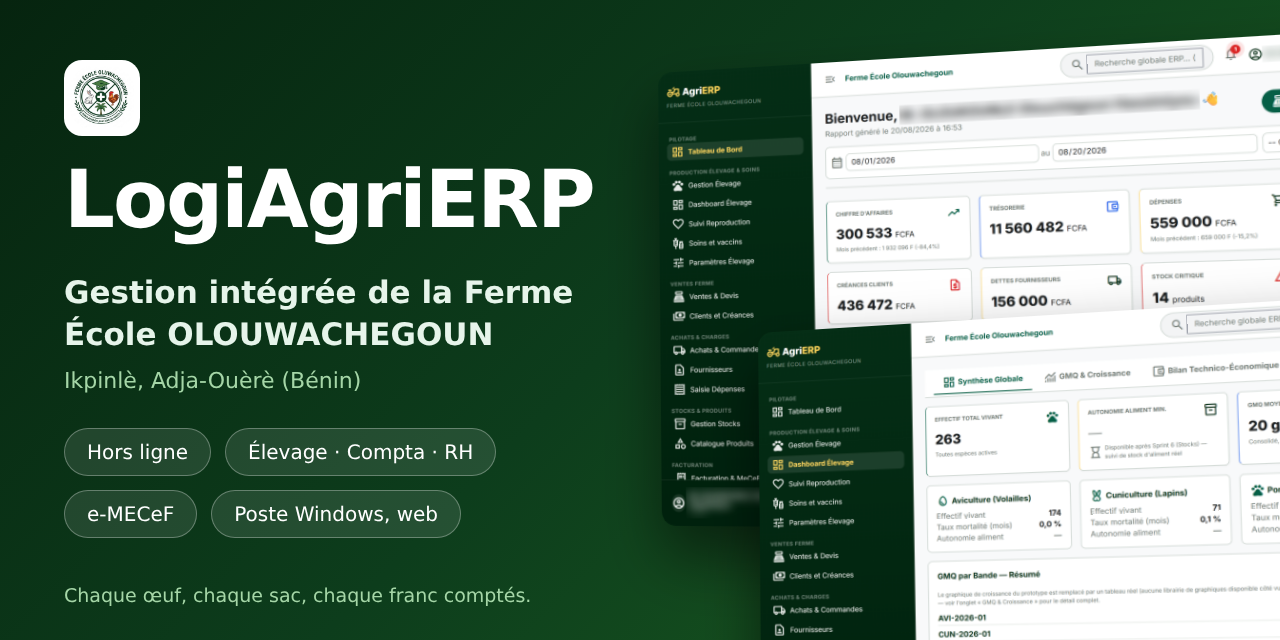
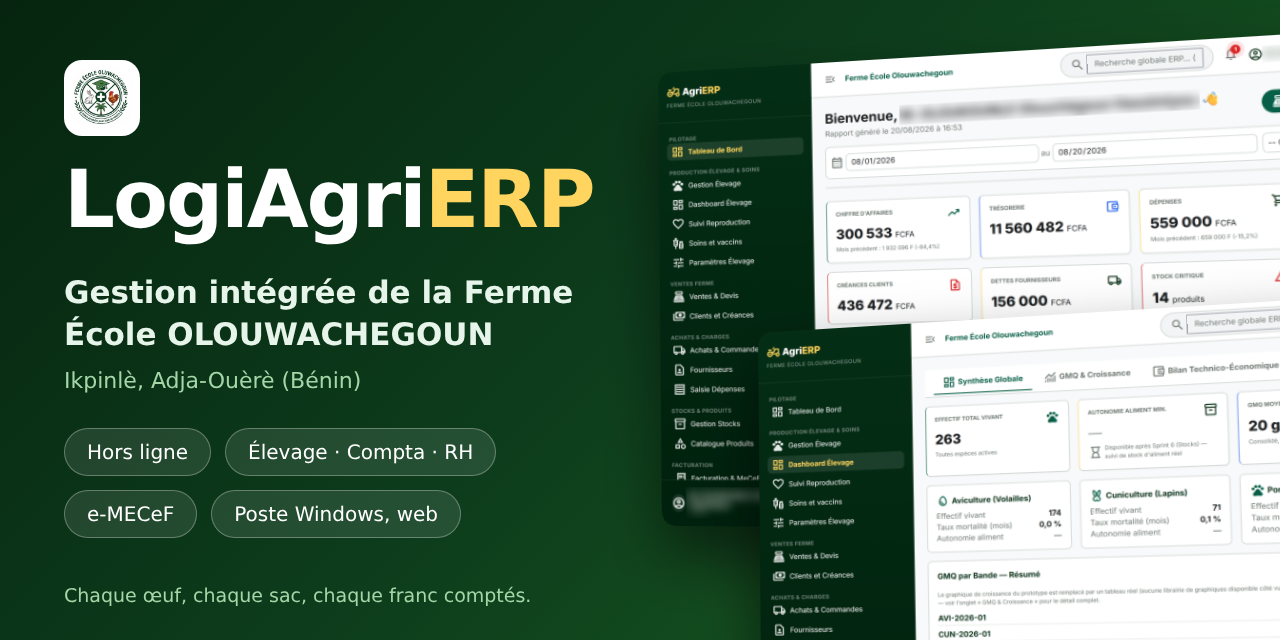
LogiAgriERP : « ERP » en jaune de la marque (accueil public, aperçu social)
Claude-Session: https://claude.ai/code/session_01UGSeJXBJCa9dMYge7ccCYt

Changed region(s): [[0.3125, 0.25, 0.4688, 0.375]]

diff --git a/agrierp_flutter/lib/main.dart b/agrierp_flutter/lib/main.dart
@@ -1855,7 +1855,7 @@ class _BarreLaterale extends StatelessWidget {
                   children: [
                     const Icon(SymbolesAgri.agriculture, color: AgriColors.accentYellow, size: 26),
                     const SizedBox(width: AgriSpacing.sm),
-                    // « Agri » blanc puis « ERP » jaune, `font-extrabold text-lg`.
+                    // « LogiAgri » blanc puis « ERP » jaune, `font-extrabold text-lg`.
                     RichText(
                       key: const Key('barre-laterale-marque'),
                       text: const TextSpan(

diff --git a/agrierp_laravel/resources/views/public/welcome.blade.php b/agrierp_laravel/resources/views/public/welcome.blade.php
@@ -23,7 +23,7 @@ body{font-family:'Inter',sans-serif;}
     <div class="fade-up d1 w-24 h-24 md:w-28 md:h-28 rounded-full bg-white/5 border border-white/20 flex items-center justify-center mb-6">
         <span class="material-symbols-outlined text-[#a6f2d1]" style="font-size:56px;">agriculture</span>
     </div>
-    <h1 class="fade-up d2 font-extrabold text-3xl md:text-5xl leading-tight max-w-3xl">Bienvenue sur <span class="text-[#FFD55F]">Agri</span>ERP</h1>
+    <h1 class="fade-up d2 font-extrabold text-3xl md:text-5xl leading-tight max-w-3xl">Bienvenue sur LogiAgri<span class="text-[#FFD55F]">ERP</span></h1>
     <p class="fade-up d3 text-white/70 text-sm md:text-base max-w-xl mt-4 leading-relaxed">
         La solution intégrée pour gérer votre exploitation agricole : ventes, stocks, comptabilité SYSCOHADA et élevage — au comptoir comme au champ.
     </p>
